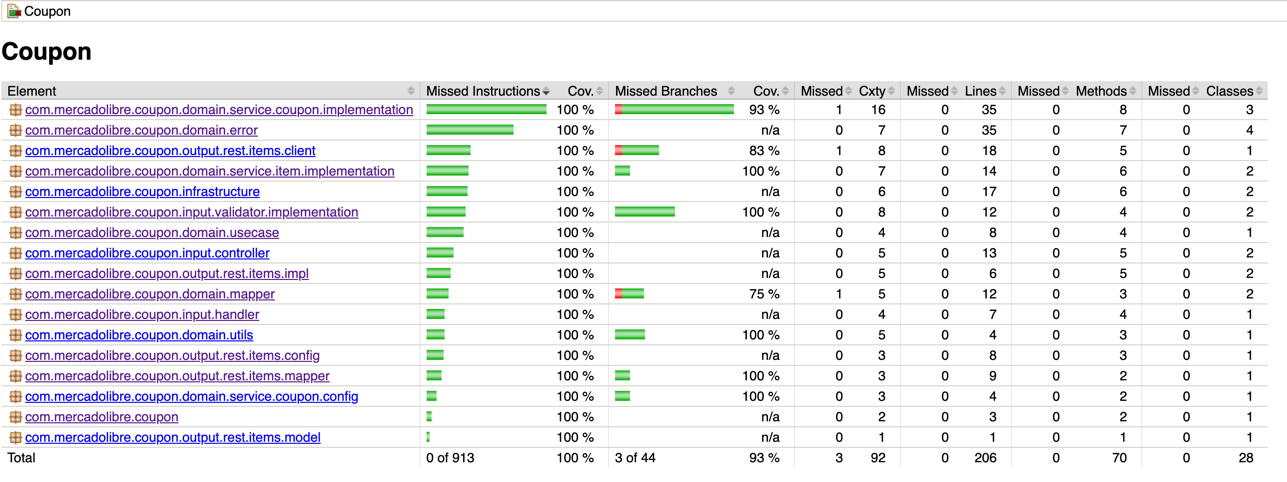
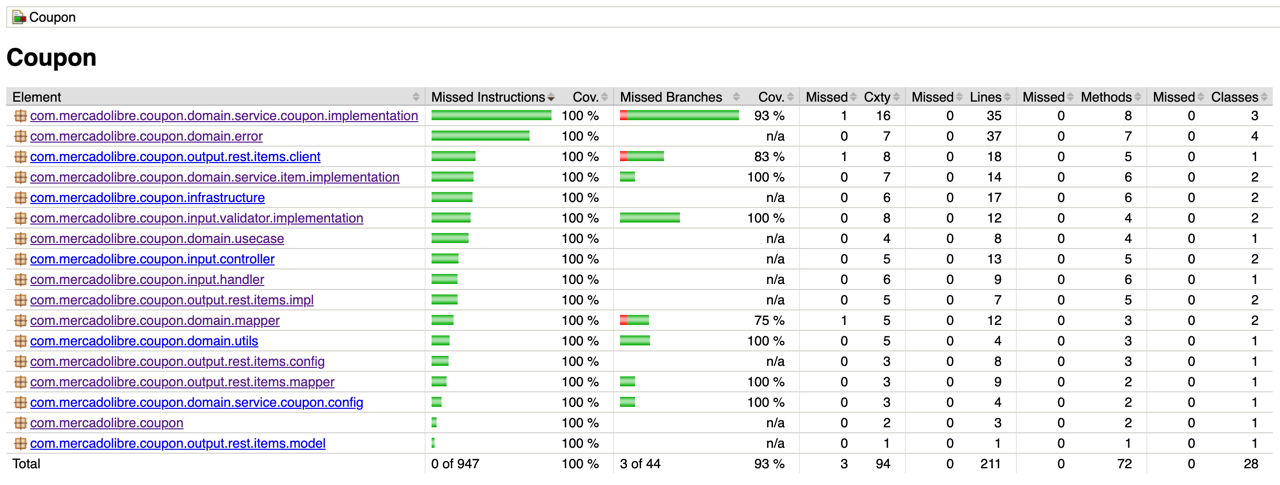
Add coverage new code

Changed region(s): [[0.0, 0.0934, 1.0, 0.9647], [0.0, 0.0, 1.0, 0.0622]]

diff --git a/src/test/java/com/mercadolibre/coupon/input/handler/ErrorHandlerTest.java b/src/test/java/com/mercadolibre/coupon/input/handler/ErrorHandlerTest.java
@@ -13,6 +13,8 @@ import org.junit.jupiter.api.extension.ExtendWith;
 import org.mockito.Mock;
 import org.mockito.junit.jupiter.MockitoExtension;
 import org.springframework.http.HttpStatus;
+import org.springframework.web.HttpRequestMethodNotSupportedException;
+import org.springframework.web.servlet.NoHandlerFoundException;
 
 @ExtendWith(MockitoExtension.class)
 class ErrorHandlerTest {
@@ -47,6 +49,30 @@ class ErrorHandlerTest {
     CustomException customException = new CustomException(apiError);
 
     ApiError result = errorHandler.handleCustomException(customException, response);
+
+    assertNotNull(result);
+    assertEquals(apiError.getCode(), result.getCode());
+    assertEquals(apiError.getDetail(), result.getDetail());
+  }
+
+  @Test
+  void handleNoHandlerFoundException() {
+    final ApiError apiError = new ApiError(ValidationError.ENDPOINT_NOT_FOUND,
+        "The endpoint you are trying to access does not exist. Please check swagger: /swagger-ui/index.html");
+
+    final ApiError result = errorHandler.handleNoHandlerFoundException(new NoHandlerFoundException("GET", "URL", null));
+
+    assertNotNull(result);
+    assertEquals(apiError.getCode(), result.getCode());
+    assertEquals(apiError.getDetail(), result.getDetail());
+  }
+
+  @Test
+  void handleHttpRequestMethodNotSupportedException() {
+    final ApiError apiError = new ApiError(ValidationError.METHOD_NOT_ALLOWED,
+        "The method you are trying to use is not allowed. Please check swagger: /swagger-ui/index.html");
+
+    final ApiError result = errorHandler.handleHttpRequestMethodNotSupportedException(new HttpRequestMethodNotSupportedException(""));
 
     assertNotNull(result);
     assertEquals(apiError.getCode(), result.getCode());
